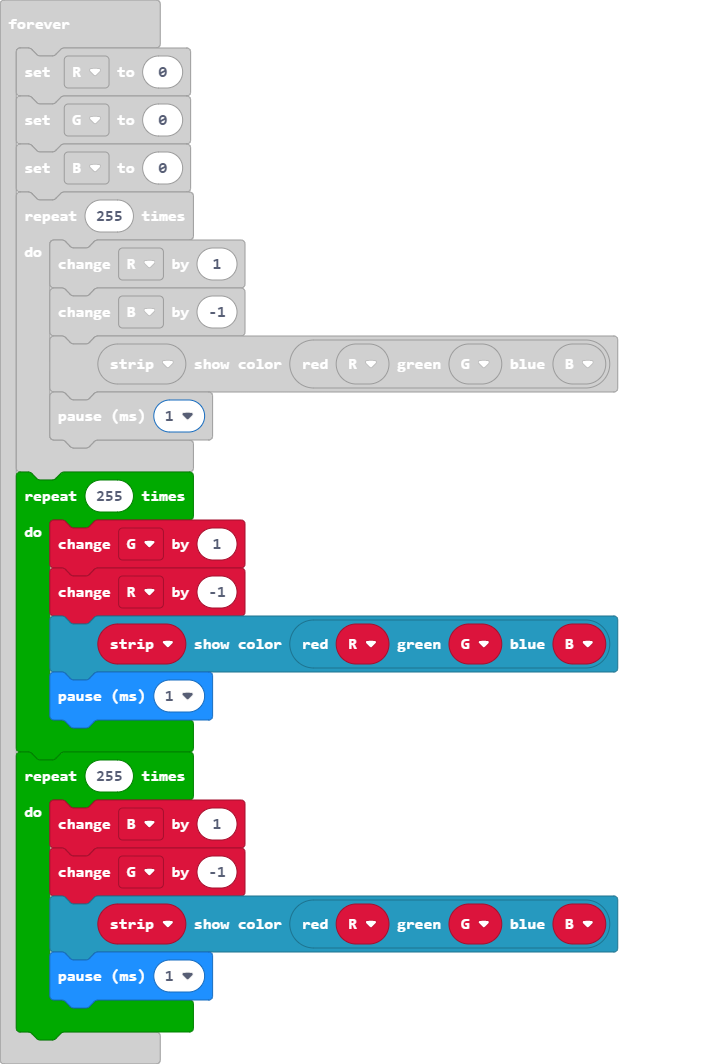
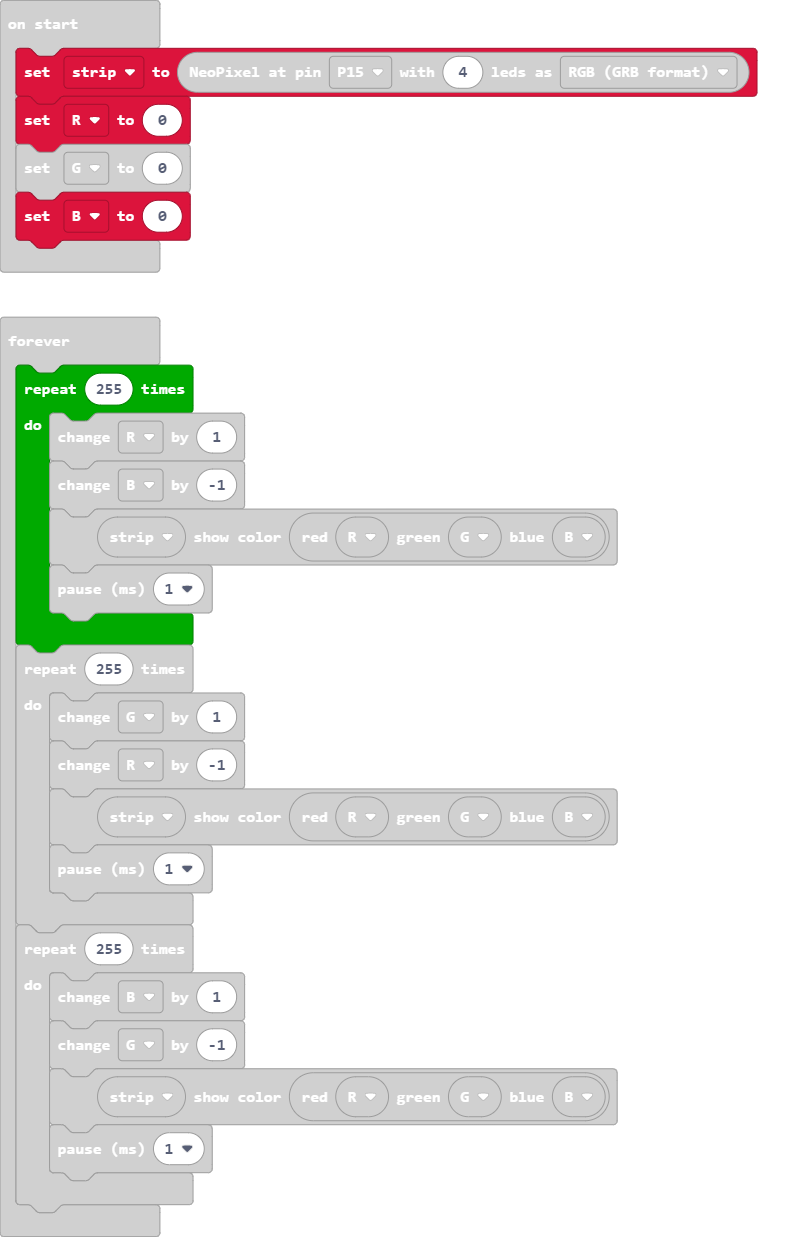
Update main.blocks, main.ts

diff --git a/main.ts b/main.ts
@@ -1,11 +1,8 @@
-let B = 0
-let G = 0
-let R = 0
 let strip = neopixel.create(DigitalPin.P15, 4, NeoPixelMode.RGB)
+let R = 0
+let G = 0
+let B = 0
 basic.forever(function () {
-    R = 0
-    G = 0
-    B = 0
     for (let index = 0; index < 255; index++) {
         R += 1
         B += -1
